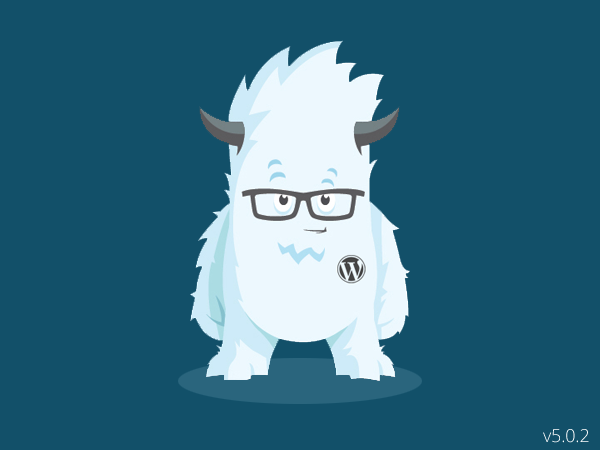
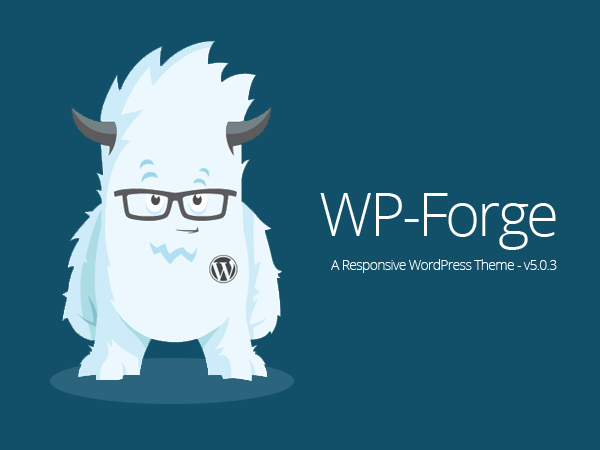
v5.0.3
Made various changes, please view CHANGELOG.php for specific
information.

diff --git a/style.css b/style.css
@@ -45,6 +45,9 @@ img {
 .top-bar-section > .alert-box.secondary p {
 	margin:0.5em 0!important;
 }
+textarea {
+	min-height:250px!important;
+}
 .sticky {}
 
 /* =Repeatable patterns
@@ -952,6 +955,7 @@ html .mceContentBody {
 	max-width: 920px!important;
 	margin:15px 0 0 15px!important;
 	padding:0!important;
+	background:#fff!important;
 }
 cite {
 	border-bottom:0!important;

diff --git a/functions.php b/functions.php
@@ -81,6 +81,9 @@ function wpforge_setup() {
 	
 	// Makes our theme support WooCommerce
 	add_theme_support( 'woocommerce' );	
+	
+	//Switches default core markup for search form, comment form, and comments to output valid HTML5.
+	add_theme_support( 'html5', array( 'search-form', 'comment-form', 'comment-list' ) );	
 
 	// This theme supports all available post formats by default. See http://codex.wordpress.org/Post_Formats
 	add_theme_support( 'post-formats', array(
@@ -91,13 +94,7 @@ function wpforge_setup() {
 	register_nav_menus(array(
 		'primary' => __( 'Main Navigation', 'wpforge' ), 
 		'secondary' => __( 'Footer Navigation', 'wpforge' ) 
-	));
-	
-	// Add support for Infinite Scroll feature of Jetpack plugin - Find out more http://jetpack.me/support/infinite-scroll/
-	add_theme_support( 'infinite-scroll', array(
-		'container'  => 'content',
-		'footer'     => 'page',
-	) );	
+	));	
 
 	// This theme uses a custom image size for featured images, displayed on "standard" posts.
 	add_theme_support( 'post-thumbnails' );
@@ -799,16 +796,6 @@ function remove_thumbnail_dimensions( $html ) {
 }
 
 /**
- * Load Gravity Forms jQuery in the footer
- *
- * @since WP-Forge 5.0.3
- */
-add_filter("gform_init_scripts_footer", "init_scripts");
-function init_scripts() {
-return true;
-} 
-
-/**
  * Remove wp version param from any enqueued scripts
  *
  * @since WP-Forge 5.0.3
@@ -848,30 +835,13 @@ function wpforge_remove_recent_comments_style() {
 add_action( 'widgets_init', 'wpforge_remove_recent_comments_style' );
 
 /**
- * Changes the URL of the admin login from WordPress to the sites URL
- *
- * @since WP-Forge 5.0.3
- */
-function change_wp_login_url() {
-	return esc_url( home_url() );
-}
-function change_wp_login_title() {
-	return get_option('blogname');
-}
-add_filter('login_headerurl', 'change_wp_login_url');
-add_filter('login_headertitle', 'change_wp_login_title');
-
-/**
- * Custom admin footer. Displays in the admin section of WordPress
- * You can change this to reflect anything you want.
+ * Add favicon to header
  * 
  * @since WP-Forge 5.0.3
  */
-function wpforge_custom_admin_footer() {
-	$mysite = "http://themeawesome.com"; /* change this to your site name */
-	echo 'Built with WP-Forge, a responsive WordPress theme developed by <a href="' . $mysite . '" target="_blank">ThemeAwesome.com</a>.';
+function wpforge_favicon() {
+echo '<link rel="shortcut icon" href="' . site_url() . '/favicon.ico" type="image/x-icon">'."\n". '<link rel="icon" href="' . site_url() . '/favicon.ico" type="image/x-icon">';
 }
-
-add_filter('admin_footer_text', 'wpforge_custom_admin_footer');
+add_action('wp_head', 'wpforge_favicon');
 
 ?>

diff --git a/content-audio.php b/content-audio.php
@@ -35,7 +35,6 @@
         	<a class="entry-format" href="<?php echo esc_url( get_post_format_link( 'audio' ) ); ?>"><i class="fa fa-volume-up"></i> <?php echo get_post_format_string( 'audio' ); ?></a>
 			<?php wpforge_entry_meta(); ?>
 			<?php edit_post_link( __( 'Edit', 'wpforge' ), '<span class="edit-link"><i class="fa fa-pencil"></i> ', '</span>' ); ?>
-			<?php if ( is_singular() && get_the_author_meta( 'description' ) && is_multi_author() ) : // If a user has filled out their description and this is a multi-author blog, show a bio on their entries. ?>
 			<?php get_template_part( 'content', 'author' ); ?>
 		</footer><!-- .entry-meta -->
 	</article><!-- #post -->

diff --git a/CHANGELOG.php b/CHANGELOG.php
@@ -1,0 +1,13 @@
+<!-- Changelog as of 01/22/2014 -->
+
+Functions.php
+1.) Added function to display favicon in functions.php (line 837)
+2.) Added html5 support for searchform, comment form and comment list (line 85)
+3.) Removed the login url redirection function that points the WP logo on the login page. Used to point to the site url, now points back to WP
+4.) Removed custom admin footer message
+
+style.css
+1.) add background to TinyMCE Editor (line 954)
+
+Files
+1.) Corrected issue with content-audio.php: removed an unclosed "if" statement

diff --git a/header.php b/header.php
@@ -9,8 +9,6 @@
 <title><?php wp_title('&#124;', true, 'right'); ?></title>
 <link rel="profile" href="http://gmpg.org/xfn/11" />
 <link rel="pingback" href="<?php bloginfo('pingback_url'); ?>" />
-<link rel="icon" href="<?php echo esc_url( home_url( '/' ) ); ?>favicon.ico" type="image/x-icon" />
-<link rel="shortcut icon" href="<?php echo esc_url( home_url( '/' ) ); ?>favicon.ico" type="image/x-icon" />
 <?php wp_head(); ?>
 </head>
 
